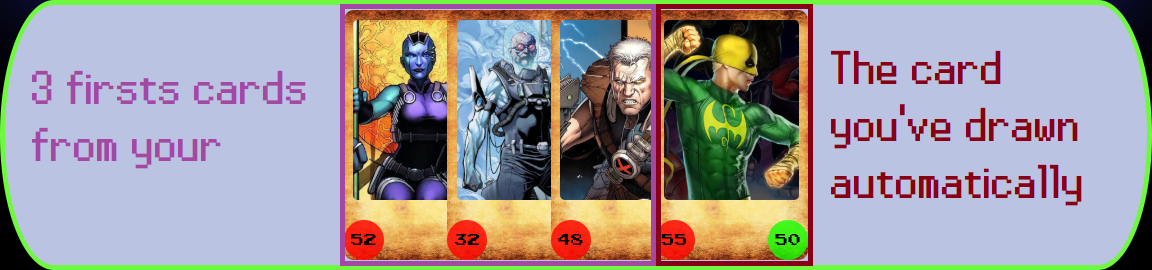
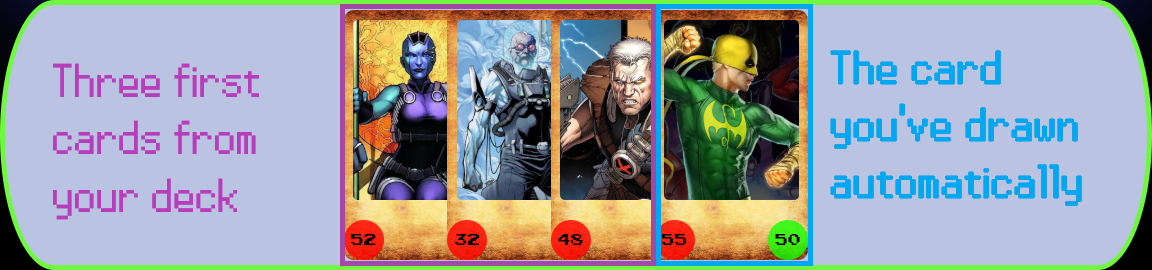
#6 fix responsive, images resolution, images, 'Deck Choice' title, etc ...

diff --git a/src/components/Rules.css b/src/components/Rules.css
@@ -27,7 +27,7 @@ body {
     display: flex;
 	flex-wrap: wrap;
     justify-content: space-around;
-    height: 90vh;
+    height: auto;
     overflow: auto;
 }
 
@@ -35,11 +35,11 @@ body {
     border: 2px solid rgb(243, 243, 147);
     border-radius: 10px;
     background:no-repeat center/100% url('https://cdn.pixabay.com/photo/2014/10/04/15/29/paper-473630_960_720.jpg');
-    width: 30%;
+    width: 45%;
     height: 80vh;
     margin-bottom: 10px;
     display: flex;
-    justify-content: center;
+    justify-content: flex-start;
     flex-direction: column;
     align-items: center;
 }
@@ -83,7 +83,8 @@ body {
     }
 
     .singleCard {
-        width: 45%;
+        width: 75%;
+        height: 160vh;
     }
     
     .NavRules {
@@ -91,10 +92,15 @@ body {
     }
 }
 
-@media only screen and (min-width: 1000px) {
+@media only screen and (max-width: 897px) {
 
     .explanation {
         font-size: 0.4rem;
+    }
+
+    .singleCard {
+        width: 60%;
+        height: 120vh;
     }
 
 }
@@ -110,7 +116,7 @@ body {
 @media only screen and (min-width: 1800px) {
 
     .explanation {
-        font-size: 1rem;
+        font-size: 1.2rem;
     }
 
 }

diff --git a/src/components/Rules.js b/src/components/Rules.js
@@ -30,13 +30,13 @@ function Rules () {
         <RulesCard
           image={Deckchoice1}
           alt='image showing the maximum total power.'
-          nameOfRule='Choice of deck - 1'
+          nameOfRule='Deck choice - 1'
           textRule='Your deck must not exceed the maximum total power authorized.'
         />
         <RulesCard
           image={DeckchoiceDesktop}
           alt='image showing the maximum total power.'
-          nameOfRule='Choice of deck - 2'
+          nameOfRule='Deck choice - 2'
           textRule='No restrictions in terms of cards’ number.'
         />
         <RulesCard
